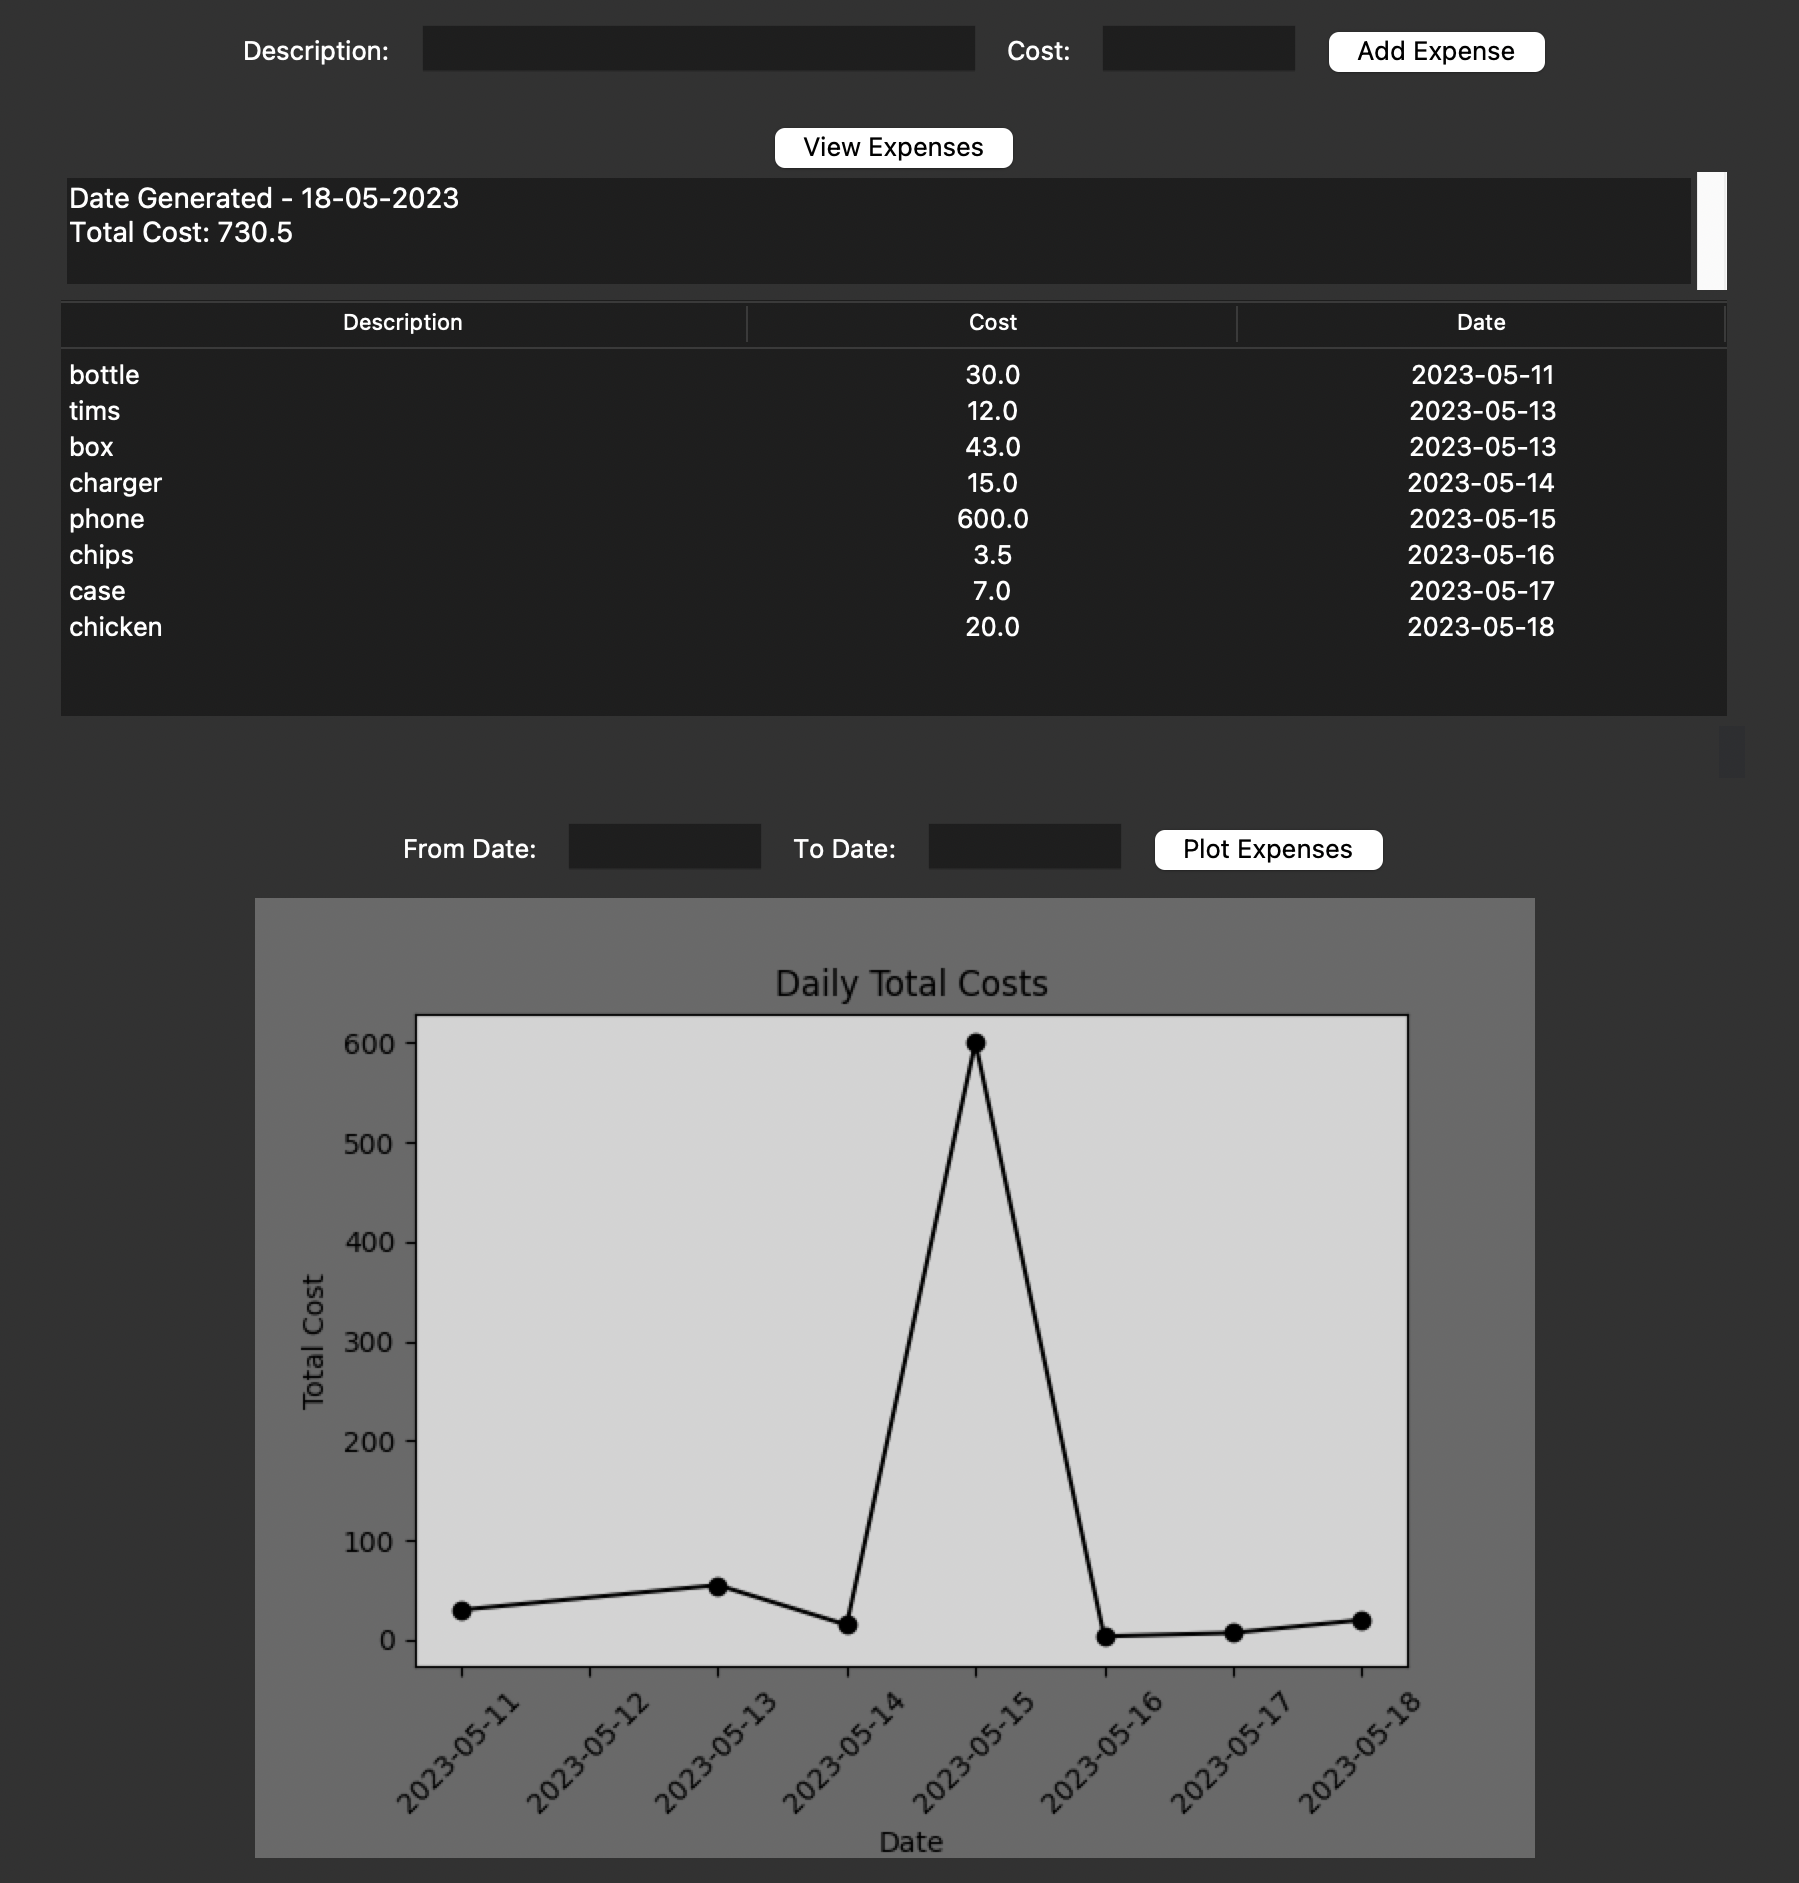
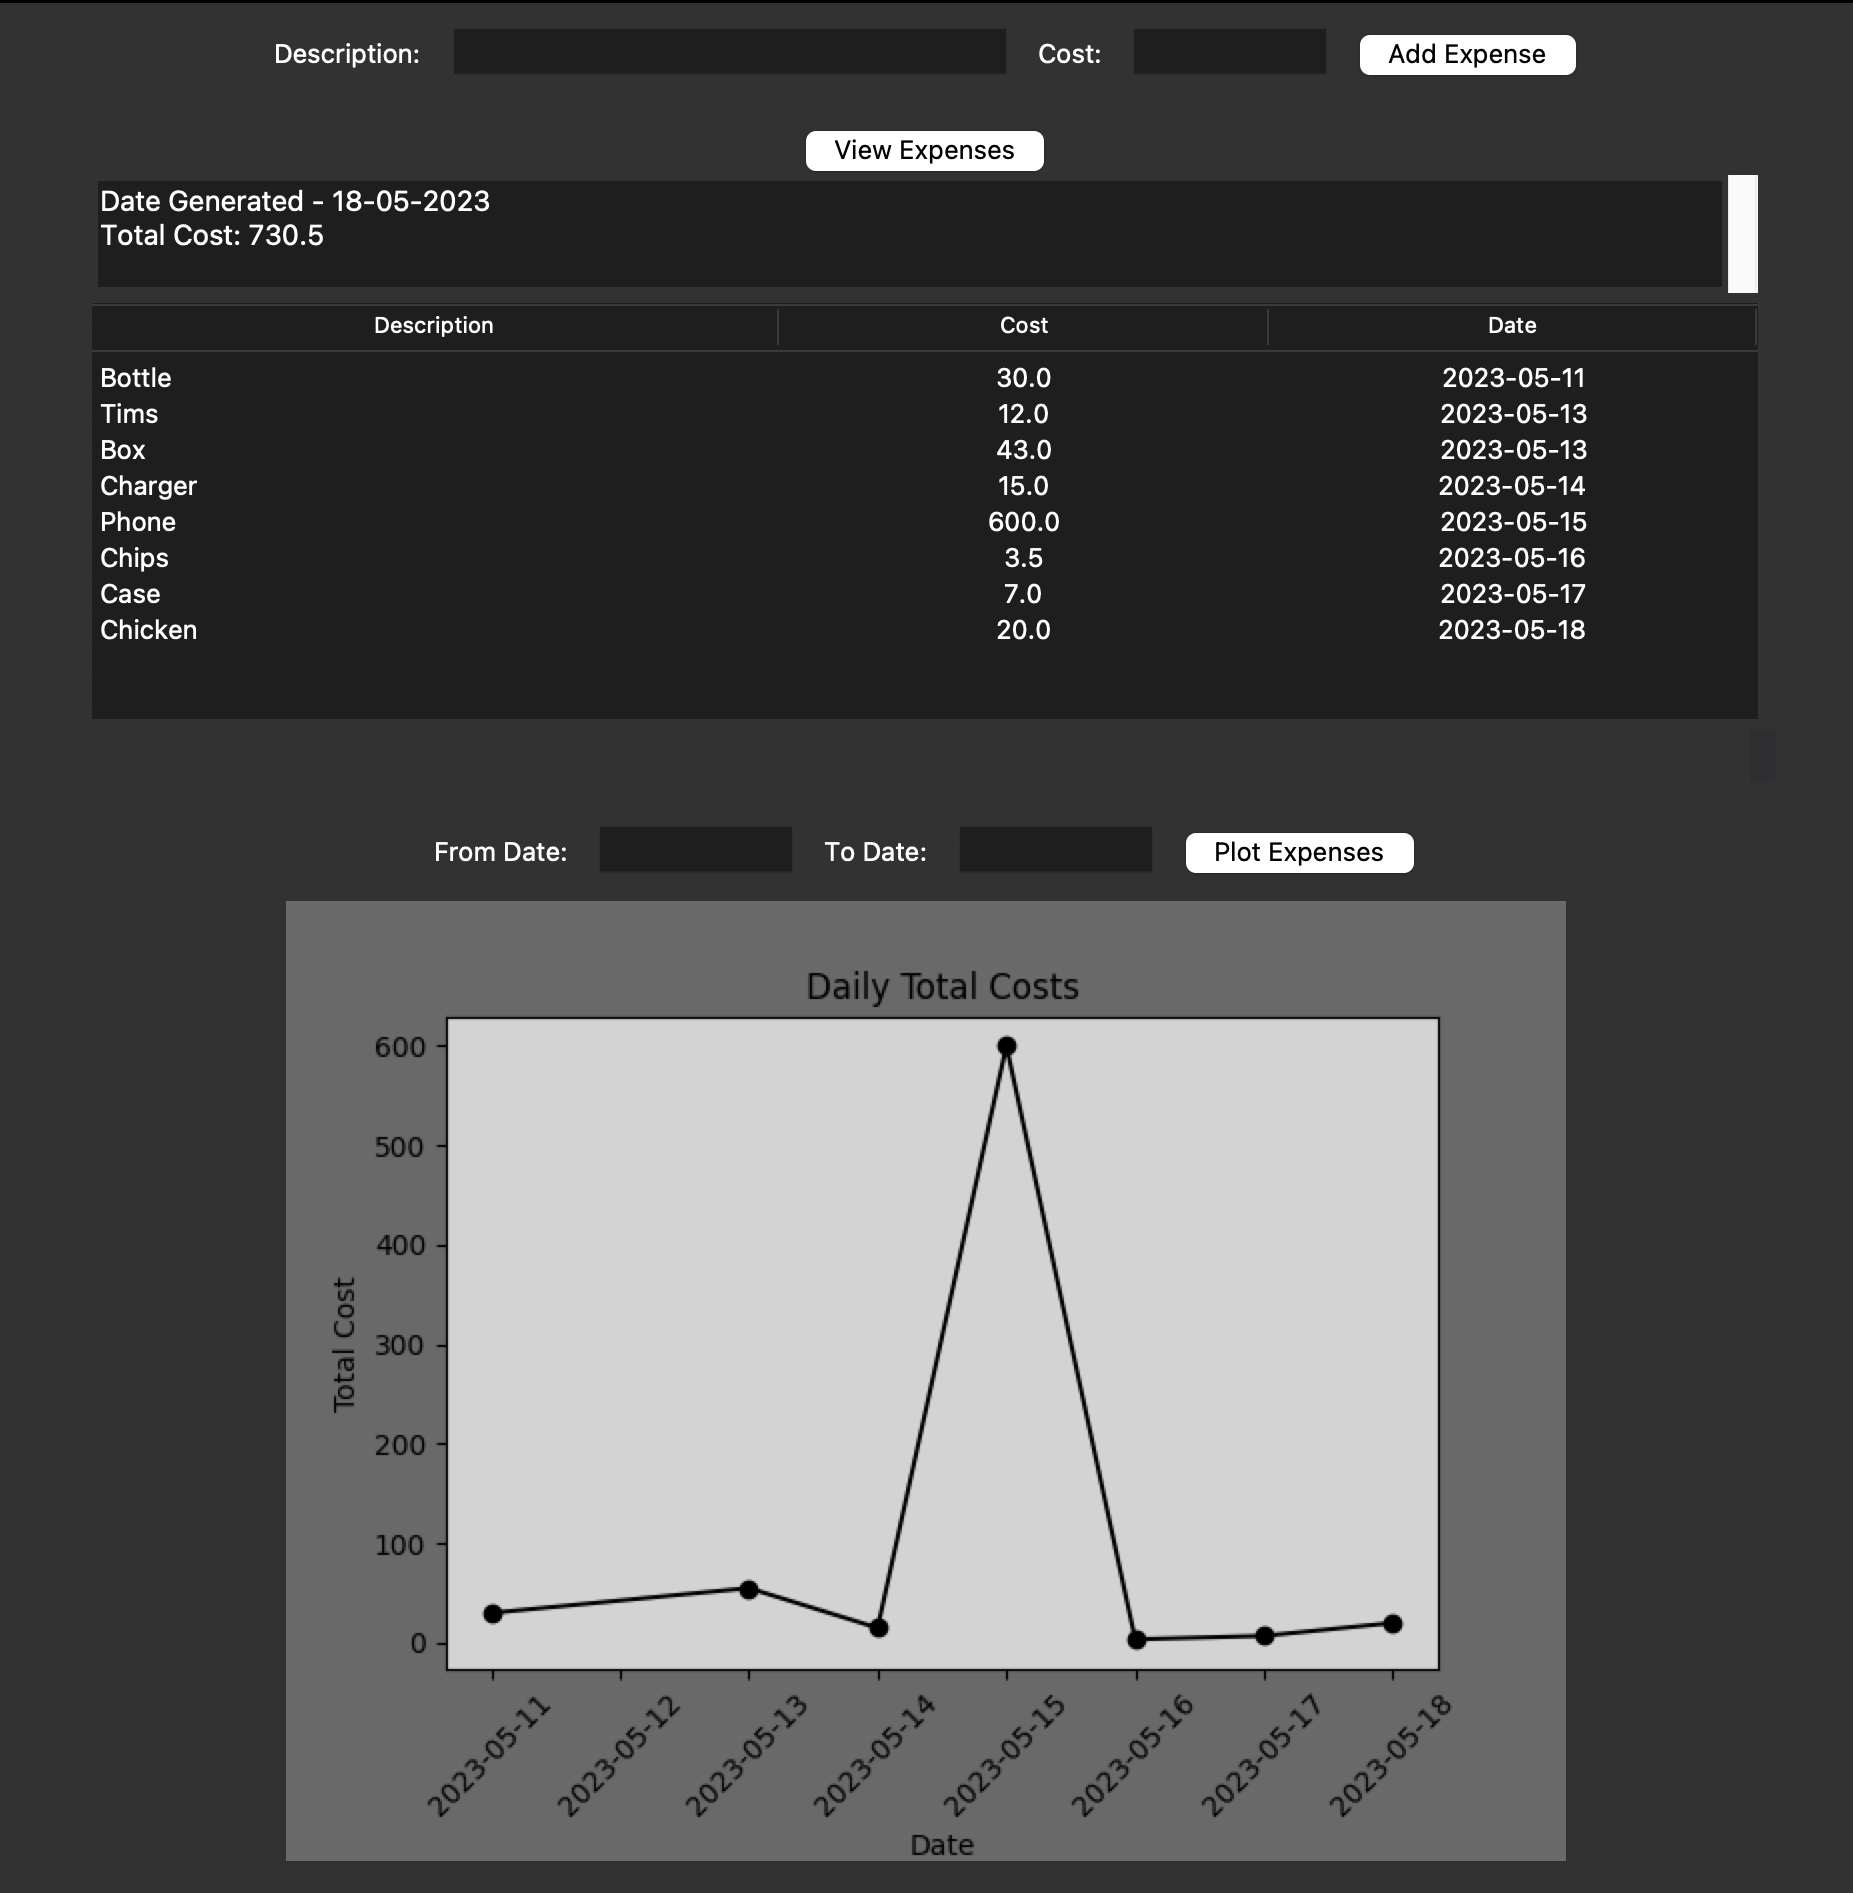
add ss

diff --git a/gui.py b/gui.py
@@ -33,7 +33,7 @@ def view_expenses():
     total_cost = 0
 
     for expense in expenses:
-        description = expense["description"]
+        description = expense["description"].capitalize()
         cost = expense["cost"]
         date = expense["date"]
         tree.insert("", tk.END, values=(description, cost, date))
